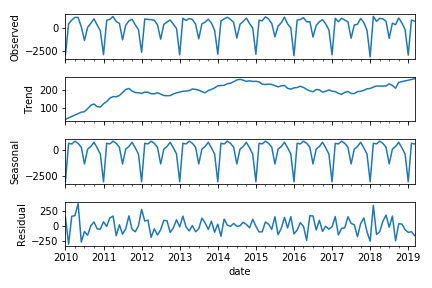
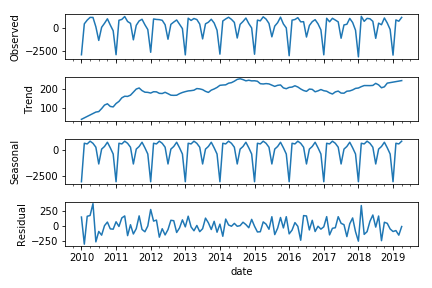
May 2019 Update

diff --git a/arima_jobs_day.py b/arima_jobs_day.py
@@ -7,7 +7,7 @@
 # Glassdoor Economic Research 
 # Web: glassdoor.com/research
 # ORIGINAL: July 2018
-# LAST UPDATE: April 25, 2019
+# LAST UPDATE: May 23, 2019
 
 import pandas as pd
 from statsmodels.tsa.seasonal import seasonal_decompose
@@ -19,11 +19,11 @@ os.chdir('/Users/andrew.chamberlain/GitHub/jobs-day-arima-forecast')
 
 # UPDATE MONTHLY: Choose starting and ending dates for ARIMA model.
 start = '2010-01-01'
-end = '2019-03-01'
+end = '2019-04-01'
 
 # UPDATE MONTHLY: Choose starting and ending dates for forecast ahead period.
-start_f = '2019-04-01'
-end_f = '2020-03-01'
+start_f = '2019-05-01'
+end_f = '2020-04-01'
 
 # Load BLS payrolls data (NSA, SA, and implied SA factors).
 # Source: https://data.bls.gov/timeseries/CEU0000000001
